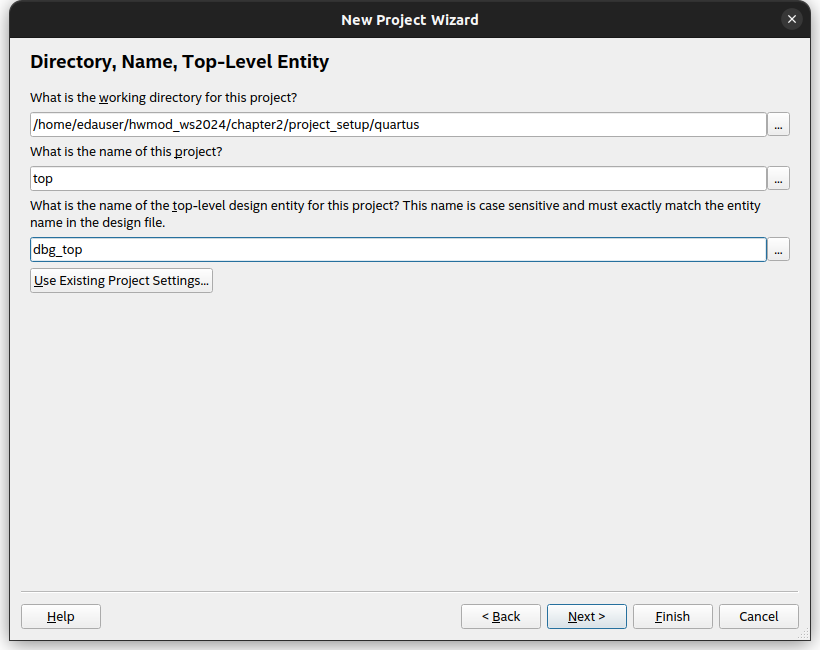
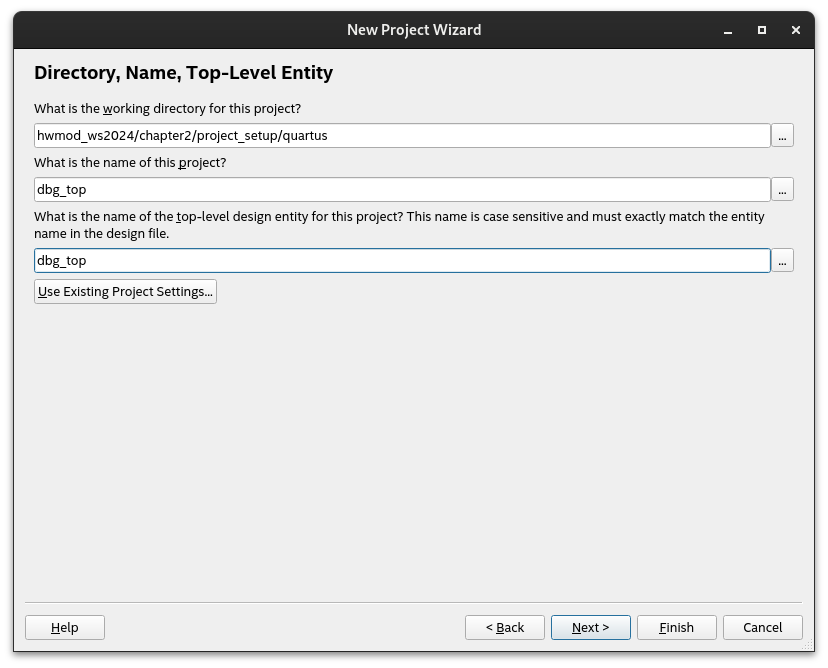
fix project name in project_setup task created from 437acc339657dd5de022637097df0d5c509c73ad

Changed region(s): [[0.0, 0.0, 1.0, 1.0]]

diff --git a/chapter2/sorting_network/task.md b/chapter2/sorting_network/task.md
@@ -39,7 +39,7 @@ The signal `start` signals your design to start sorting the inputs.
 Lastly, `done` is supposed to be asserted for one clock cycle whenever your design finished sorting its input and the sorted data is output on `sorted_data`.
 
 Place registers between all layers of your sorting network, as well as at the input and output of the sorting network.
-I.e., for `N4L3D3` in the first clock cycle after sampling a high `start` and the input data, it first compares inputs 0 & 2 and 1 & 3 simultaneously.
+I.e., for `N4L5D3` in the first clock cycle after sampling a high `start` and the input data, it first compares inputs 0 & 2 and 1 & 3 simultaneously.
 The intermediate registers then sample the result of this first layer.
 The output of these registers is then used by the next sorting network layer, which is then stored by further registers and so on.
 The sorting should thus not take more than five clock cycles.

diff --git a/chapter2/project_setup/task.md b/chapter2/project_setup/task.md
@@ -53,7 +53,7 @@ Click `Next`.
 
 In this step, you have to configure the directory where the project is stored.
 Set it to the `quartus` directory of this task.
-The name of the project must be set to `top`.
+The name of the project must be set to `dbg_top`.
 For top-level entity `dbg_top` must be selected.
 This is the name of a wrapper which we will use to provide you with additional functionality required for the remote lab and will be discussed further below.
 
